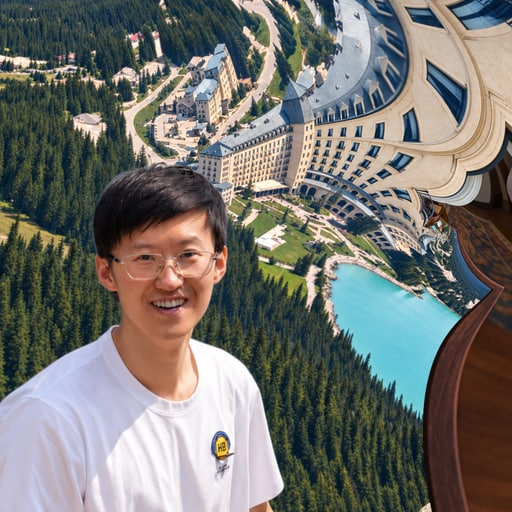
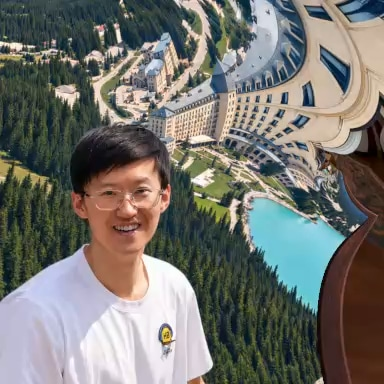
adjust color

diff --git a/_layouts/home.html b/_layouts/home.html
@@ -7,7 +7,7 @@ layout: default
       <div class="profile-frame">
         <picture>
           <source srcset="{{ '/images/profile-spiral.webp' | relative_url }}" type="image/webp">
-          <img class="portrait" src="{{ '/images/profile-spiral.jpg' | relative_url }}" alt="{{ site.name | escape }} beside a spiral that leads through a hotel room into a framed picture" width="512" height="512" decoding="async">
+          <img class="portrait" src="{{ '/images/profile-spiral.jpg' | relative_url }}" alt="{{ site.name | escape }} beside a spiral that leads through a hotel room into a framed picture" width="384" height="384" decoding="async">
         </picture>
         <video id="profile-journey" class="profile-journey" preload="none" muted playsinline aria-hidden="true" tabindex="-1"></video>
       </div>

diff --git a/assets/css/editorial.css b/assets/css/editorial.css
@@ -31,7 +31,8 @@ main.wrap{padding-bottom:48px}
 
 /* A static portrait first; video is requested only by its travel button. */
 .profile-picture{width:180px;max-width:100%;margin-bottom:25px}
-.profile-frame{position:relative;aspect-ratio:1;overflow:hidden}
+/* Grade the shared frame so the poster and movie always receive identical color treatment. */
+.profile-frame{position:relative;aspect-ratio:1;overflow:hidden;filter:saturate(.82) contrast(.92)}
 .profile-frame .portrait{width:100%;height:auto;margin:0}
 .profile-frame picture{display:block}
 .profile-journey{position:absolute;inset:0;width:100%;height:100%;object-fit:contain;visibility:hidden}

diff --git a/README.md b/README.md
@@ -25,7 +25,9 @@ The working folder on this Mac is `/Users/Burninghorn/AcademicWebsite`. In Finde
 
 Biography and teaching are Markdown. Paper entries are YAML: preserve indentation with spaces. Each paper has `title`, `authors`, `url`, and optional `journal`, `details`, `status`, `video`, `note`, and `abstract`. Reorder the groups or entries to change their display order. Notes and abstracts support Markdown links. An `abstract` appears beneath its paper in a collapsible block, closed by default. Keep the existing filenames when replacing PDFs or the portrait.
 
-The profile uses a 512-square still image. The “travel into the picture” button loads a silent, 384-square, 12-second H.264 movie only after a click, plays once, and returns to the still. Click again during playback to stop. There is no automatic animation, including for visitors with reduced motion enabled. Without JavaScript the still remains and the button is hidden. No editor, rendering library, or large source texture is sent to visitors. The original portrait remains the browser icon.
+The profile uses a 384-square still exported from the journey movie's decoded first frame, with its color profile converted to sRGB. The movie uses explicit Rec. 709 primaries and matrix with an sRGB transfer curve (1-13-1 color tags). A shared `.profile-frame` CSS filter applies 82% saturation and 92% contrast to both the still and video, giving them a softer appearance that fits the site. Keep this filter on their shared container to avoid a color jump on playback.
+
+The “travel into the picture” button loads the silent, 384-square, 12-second H.264 movie only after a click, plays once, and returns to the still. Click again during playback to stop. There is no automatic animation, including for visitors with reduced motion enabled. Without JavaScript the still remains and the button is hidden. No editor, rendering library, or large source texture is sent to visitors. The original portrait remains the browser icon.
 
 The chosen composition is saved locally in `images/hotel-spiral-settings.json`; its source PNG is `images/hotel-spiral.png`. The cleanup and reproducible rendering files are under `output/hotel-profile-final/`. These working files and the original camera photo are ignored by Git and excluded from publication; only the optimized profile assets are intended for commit and deployment. The browser icon and image manifest also remain in Git.
 
